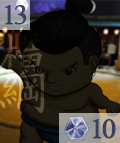
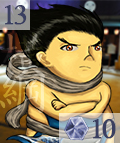
Adds new assets. Fixes game over mechanic.

diff --git a/game/world.py b/game/world.py
@@ -305,17 +305,9 @@ class GameWorld(GameObject):
 			if lane_pass > 0:
 				tile.remove_content()
 				if lane_pass == 1:
-					player2.lives -= action_mana
+					player2.lives -= sumo.weight
 				else:
-					player1.lives -= action_mana
-
-				if player1.lives < 0:
-					self.game_state = Resources.state['END']
-					return
-
-				if player2.lives < 0:
-					self.game_state = Resources.state['END']
-					return
+					player1.lives -= sumo.weight
 
 			else:
 				tile.set_content(sumo)
@@ -477,6 +469,17 @@ class GameWorld(GameObject):
 			self.game_state = Resources.state['EXECUTE']
 
 		elif self.game_state == Resources.state['EXECUTE']:
+			player1 = self.find_game_object('Player1')
+			player2 = self.find_game_object('Player2')
+			if player1.lives < 0:
+				self.game_state = Resources.state['END']
+				return
+
+			if player2.lives < 0:
+				self.game_state = Resources.state['END']
+				return
+
+
 			if self.sequence == []:
 				self.game_state = Resources.state['REPLENISH']
 
